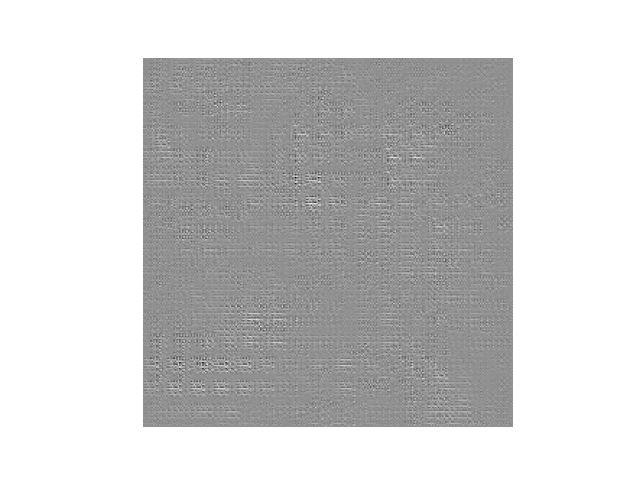
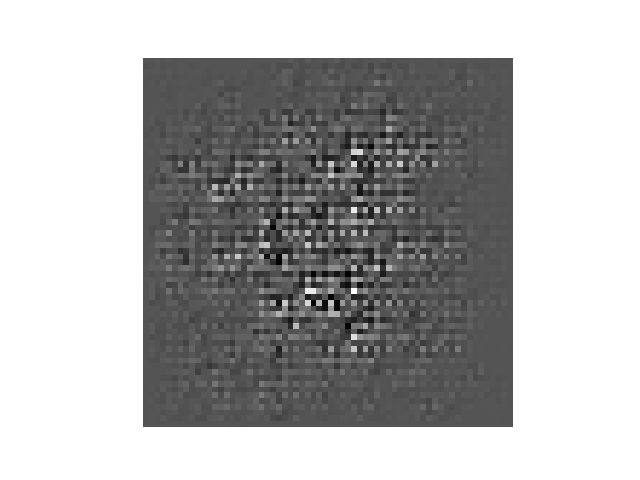
small nn

diff --git a/code/train.py b/code/train.py
@@ -61,7 +61,7 @@ def train(model, d_loss, r_loss, ndcg_loss, optimizers, data, log = logfile, bsi
         dloss_cumsum_discriminator += dloss.item()
 
     invN = 1/(n+1)
-    return invN * dloss_cumsum_generator, invN * dloss_cumsum_discriminator, invN * rloss_cumsum, invN * ndcg_loss_cumsum, invN * generator_cumsum
+    return dloss_cumsum_generator, dloss_cumsum_discriminator, rloss_cumsum, ndcg_loss_cumsum, generator_cumsum
 
 def test(model, d_loss, r_loss, ndcg_loss, optimizers, data, log = logfile, bsize = 2, w = [0.33, 0.33, 0.33], device = 'cuda'):
 
@@ -71,6 +71,7 @@ def test(model, d_loss, r_loss, ndcg_loss, optimizers, data, log = logfile, bsiz
     generator_cumsum = 0
     rloss_cumsum = 0
     ndcg_loss_cumsum = 0
+
 
     true = torch.zeros((bsize, 2)).to(device)
     true[:, 0] = 1
@@ -88,6 +89,9 @@ def test(model, d_loss, r_loss, ndcg_loss, optimizers, data, log = logfile, bsiz
 
             # Generator loss
 
+            #print(fake_chance_generator.shape, true.shape, end = '\r')
+
+            #print(true.shape, fake_chance_generator.shape)
             dloss = d_loss(fake_chance_generator, true)
             rloss = (r_loss(predicted_year_true.view(-1), yt) + r_loss(predicted_year_fake.view(-1), yc)) *.5
             #ranking_loss = ndcg_loss(ranking, yc) 
@@ -103,31 +107,30 @@ def test(model, d_loss, r_loss, ndcg_loss, optimizers, data, log = logfile, bsiz
 
             # Discriminator loss
             fake_chance_discriminator = model.discriminator(fake_chance_discriminator.detach())
-            dloss = (d_loss(fake_chance_discriminator, false) + d_loss(true_chance, true)) * .5
+            dloss = (d_loss(fake_chance_discriminator, false) + d_loss(true_chance, true))
 
             # Verbose variables for generator
             dloss_cumsum_discriminator += dloss.item()
 
             plt.imshow(img[0].squeeze().cpu().numpy(), cmap = 'gray')
             plt.axis('off')
-            plt.savefig(f'/home/adri/Desktop/cvc/nDCG-GAN/code/imgs/{n}.png')
+            plt.savefig(f'/home/adria/Desktop/GAN-nDCG/nDCG-GAN/code/imgs/{n}.png')
             plt.clf()
-            break #TODO: ELIMINAR AIXÒ
 
     invN = 1/(n+1)
-    return invN * dloss_cumsum_generator, invN * dloss_cumsum_discriminator, invN * rloss_cumsum, invN * ndcg_loss_cumsum, invN * generator_cumsum
+    return  dloss_cumsum_generator, dloss_cumsum_discriminator, rloss_cumsum, ndcg_loss_cumsum, generator_cumsum
 
 
 if __name__ == '__main__':
-    device = 'cpu'
-    EPOCHES = 1
-    bs = 3
+    device = 'cuda'
+    EPOCHES = 100
+    bs = 128
 
     test_data = Yearbook(YEARBOOK_BASE + '/test_F.txt')
     train_data = Yearbook(YEARBOOK_BASE + '/test_M.txt')
     
     test_loader = torch.utils.data.DataLoader(test_data, batch_size = bs, drop_last = True)
-    train_loader = torch.utils.data.DataLoader(train_data, batch_size = bs, num_workers = 2, drop_last = True)
+    train_loader = torch.utils.data.DataLoader(train_data, batch_size = bs, num_workers = 4, drop_last = True)
 
     model = nDCG_GAN().to(device)
 
@@ -140,7 +143,7 @@ if __name__ == '__main__':
 
     all = []
     [all.extend(list(x.parameters() )) for x in discriminator]
-    optimizer_discriminator = torch.optim.RMSprop(all, lr = 1e-3) # Actually, we want to train different each part of the model
+    optimizer_discriminator = torch.optim.RMSprop(all, lr = 1e-5) # Actually, we want to train different each part of the model
 
     optimizers = [optimizer_discriminator, optimizer_generator]
 
@@ -148,9 +151,28 @@ if __name__ == '__main__':
     regression_loss = torch.nn.MSELoss()    
     ranking_loss = ndcg_loss.DGCLoss()
 
+    dloss_list = []
+    dloss_list_generator = []
+    rloss_list = []
+
     for i in range(EPOCHES):
-        print(test(model, discriminative_loss, regression_loss, ranking_loss, optimizers, test_loader, bsize = bs, device=device))
-        print(train(model, discriminative_loss, regression_loss, ranking_loss, optimizers, train_loader, bsize = bs,  device = device))
-    print(test(model, discriminative_loss, regression_loss, ranking_loss, optimizers, test_loader, device=device))
+        test_out = test(model, discriminative_loss, regression_loss, ranking_loss, optimizers, test_loader, bsize = bs, device=device)
+        print("Test:", test_out )
+        dloss_list.append(test_out[1])
+        dloss_list_generator.append(test_out[0])
+        rloss_list.append(test_out[2])
+        
+        plt.plot(dloss_list)
+        plt.plot(dloss_list_generator)
+        plt.savefig(f'/home/adria/Desktop/GAN-nDCG/nDCG-GAN/code/dloss.png')
+        plt.clf()
+
+        plt.plot(rloss_list)
+        plt.savefig(f'/home/adria/Desktop/GAN-nDCG/nDCG-GAN/code/rloss.png')
+        plt.clf()
+
+
+        print("Train:", train(model, discriminative_loss, regression_loss, ranking_loss, optimizers, train_loader, bsize = bs,  device = device))
+    print(test(model, discriminative_loss, regression_loss, ranking_loss, optimizers, test_loader,bsize=bs, device=device))
 
 

diff --git a/code/models.py b/code/models.py
@@ -3,8 +3,9 @@ import torch
 import torchvision
 import torch.nn as nn
 import numpy as np
+import torch.nn.functional as F
 
-OUT_BOTTLENECK = 1000
+OUT_BOTTLENECK = 32
 OUT_ENCODERS = 512
 
 class BaseBottleneck(nn.Module):
@@ -15,13 +16,19 @@ class BaseBottleneck(nn.Module):
     def __init__(self) -> None:
 
         super(BaseBottleneck, self).__init__()
-        self.conv = torchvision.models.resnet101(pretrained=1)
+        #torchvision.models.resnet101(pretrained=1)
         self.upchannels = nn.Conv2d(1, 3, 1)
         self.a = nn.ReLU()
+        self.conv = nn.Sequential(nn.Conv2d(3, 8, 4),
+        self.a,
+        nn.Conv2d(8, 16, 8),
+        self.a,
+        nn.Conv2d(16, 32, 8))
 
     def forward(self, x):
         x = self.upchannels(x)
         x = self.conv(x)
+        x = F.adaptive_avg_pool2d(x, (1, 1)).view(x.shape[0], -1)
         return x
 
 class VisualEncoder(BaseBottleneck):
@@ -89,12 +96,12 @@ class Generator(nn.Module):
             nn.ConvTranspose2d(ngf * 8, ngf * 4, 4, 2, 1, bias=False),
             nn.BatchNorm2d(ngf * 4),
             nn.ReLU(True),
-            nn.Upsample(scale_factor = 2),
+            #nn.Upsample(scale_factor = 2),
 
             nn.ConvTranspose2d( ngf * 4, ngf * 2, 4, 2, 1, bias=False),
             nn.BatchNorm2d(ngf * 2),
             nn.ReLU(True),
-            nn.Upsample(scale_factor = 2),
+            #nn.Upsample(scale_factor = 2),
             nn.ConvTranspose2d( ngf * 2, ngf, 4, 2, 1, bias=False),
             nn.BatchNorm2d(ngf),
             nn.ReLU(True),
@@ -124,7 +131,7 @@ class nDCG_GAN(nn.Module):
 
         context = torch.mean(torch.stack([self.context_encoder(x[i]) for i in range(x.shape[0])]), 1)
         visual = self.visual_encoder(t)
-        input_generator = torch.concat((context, visual), 1)
+        input_generator = torch.cat((context, visual), 1)
         img_generated = self.generator(input_generator)
 
         fake_chance_gGradient = self.discriminator(img_generated)
@@ -150,6 +157,6 @@ if __name__ == '__main__':
 
         print(x.shape, z.shape)
 
-        print(model(z, x))
+        print(model(z, x)[0].shape)
 
         break

diff --git a/code/datautils.py b/code/datautils.py
@@ -4,10 +4,10 @@ import cv2
 import matplotlib.pyplot as plt
 import random
 
-YEARBOOK_BASE = '/home/adri/Desktop/cvc/data/yearbook/faces_aligned_small_mirrored_co_aligned_cropped_cleaned'
+YEARBOOK_BASE = '/home/adria/Desktop/yearbook/faces_aligned_small_mirrored_co_aligned_cropped_cleaned'
 
 class Yearbook(torch.utils.data.Dataset):
-    def __init__(self, files, img_size = (256, 256), base_path = f"{YEARBOOK_BASE}/") -> None:
+    def __init__(self, files, img_size = (64, 64), base_path = f"{YEARBOOK_BASE}/") -> None:
         super(Yearbook).__init__()
 
         self.net_size = img_size
